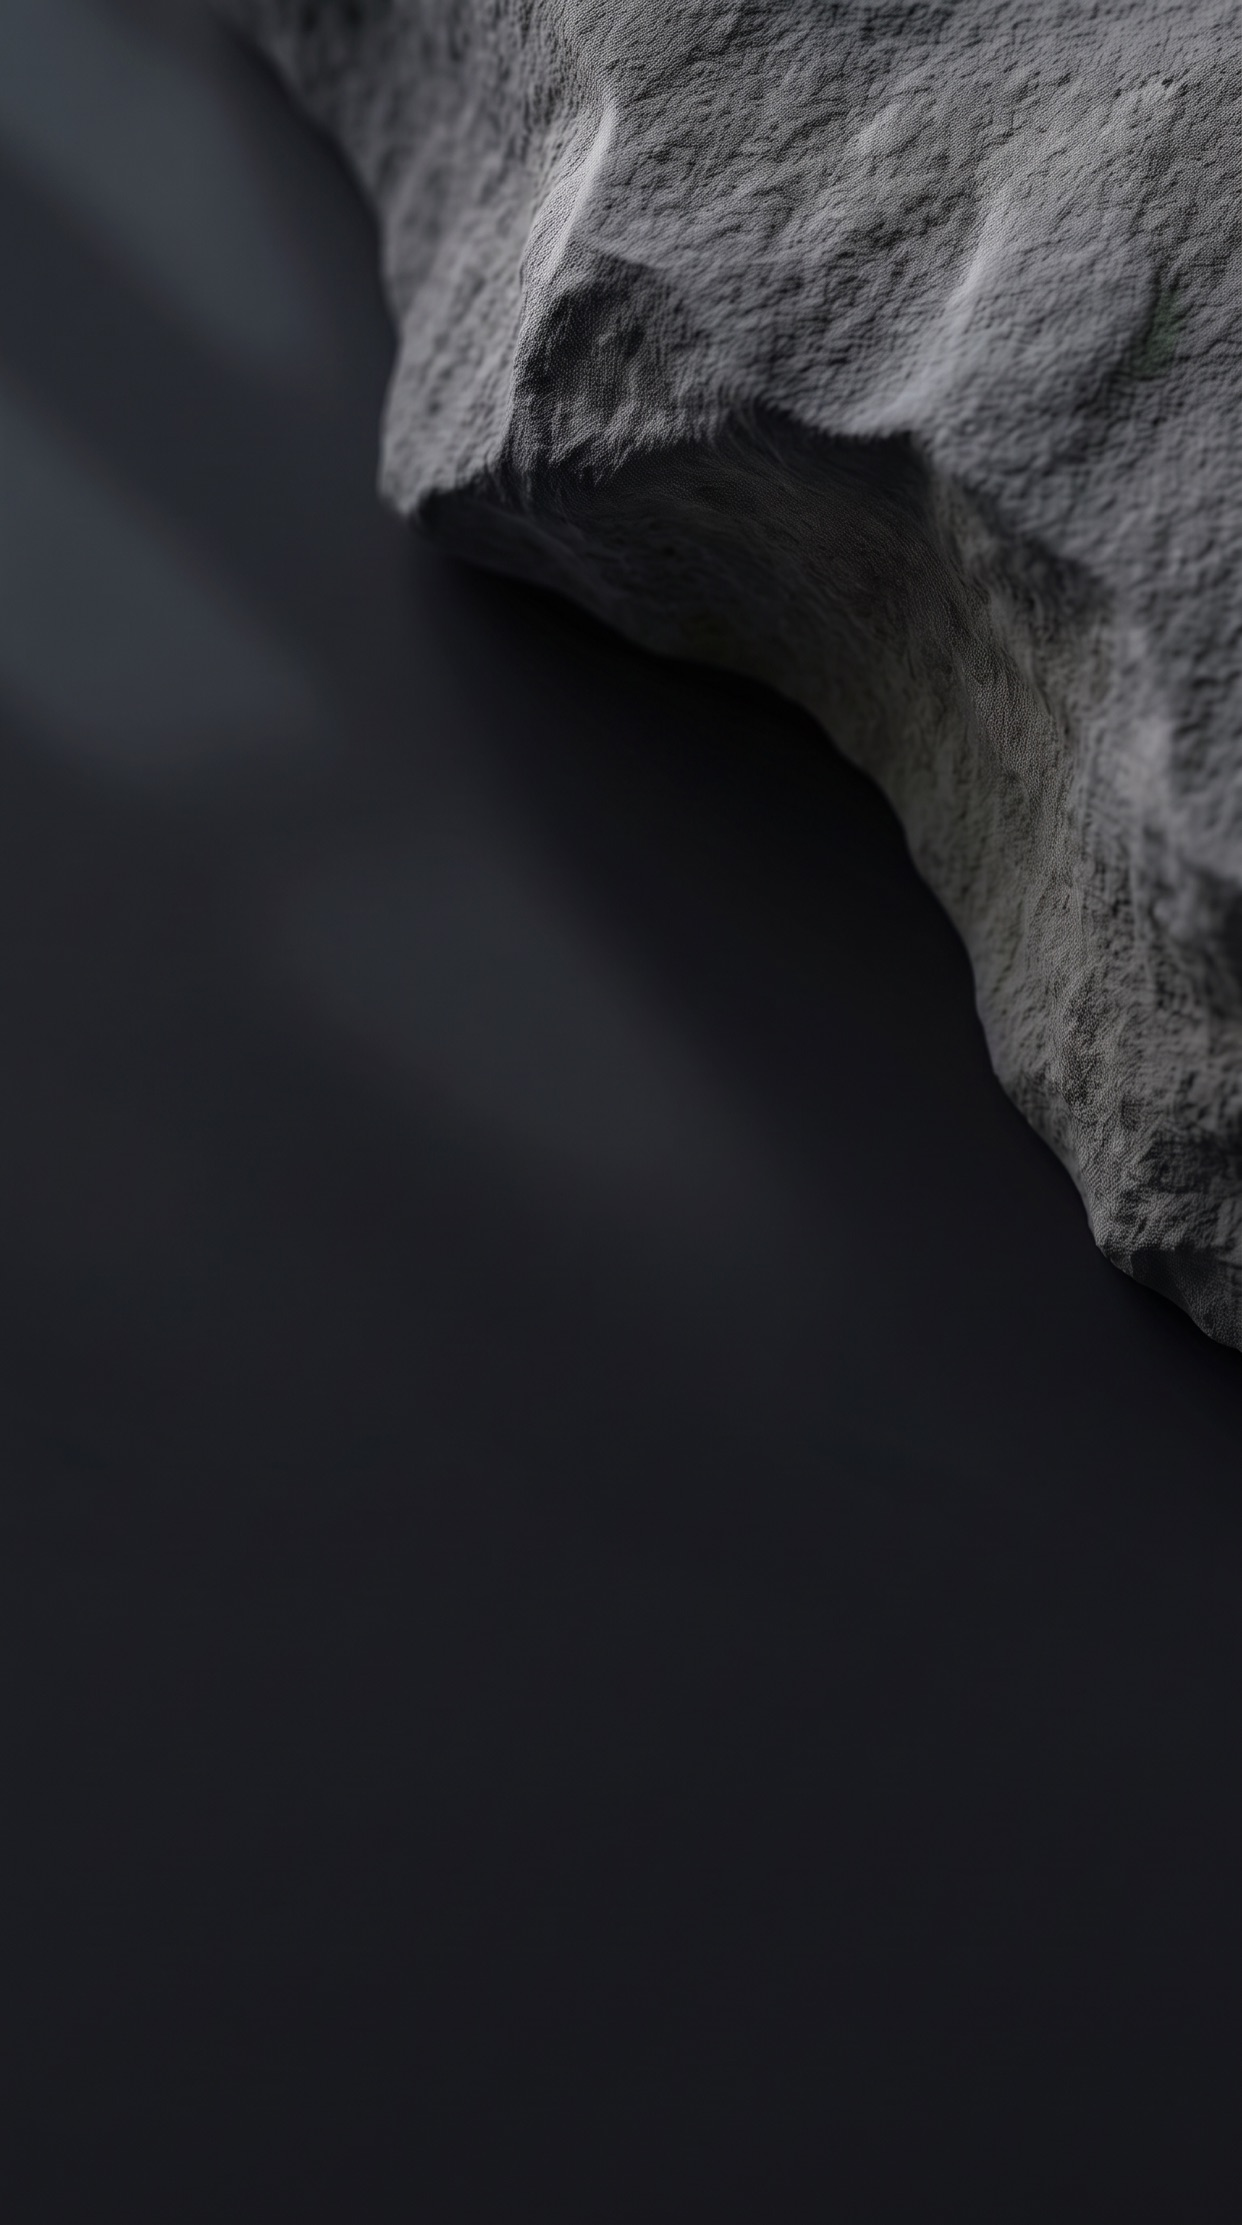
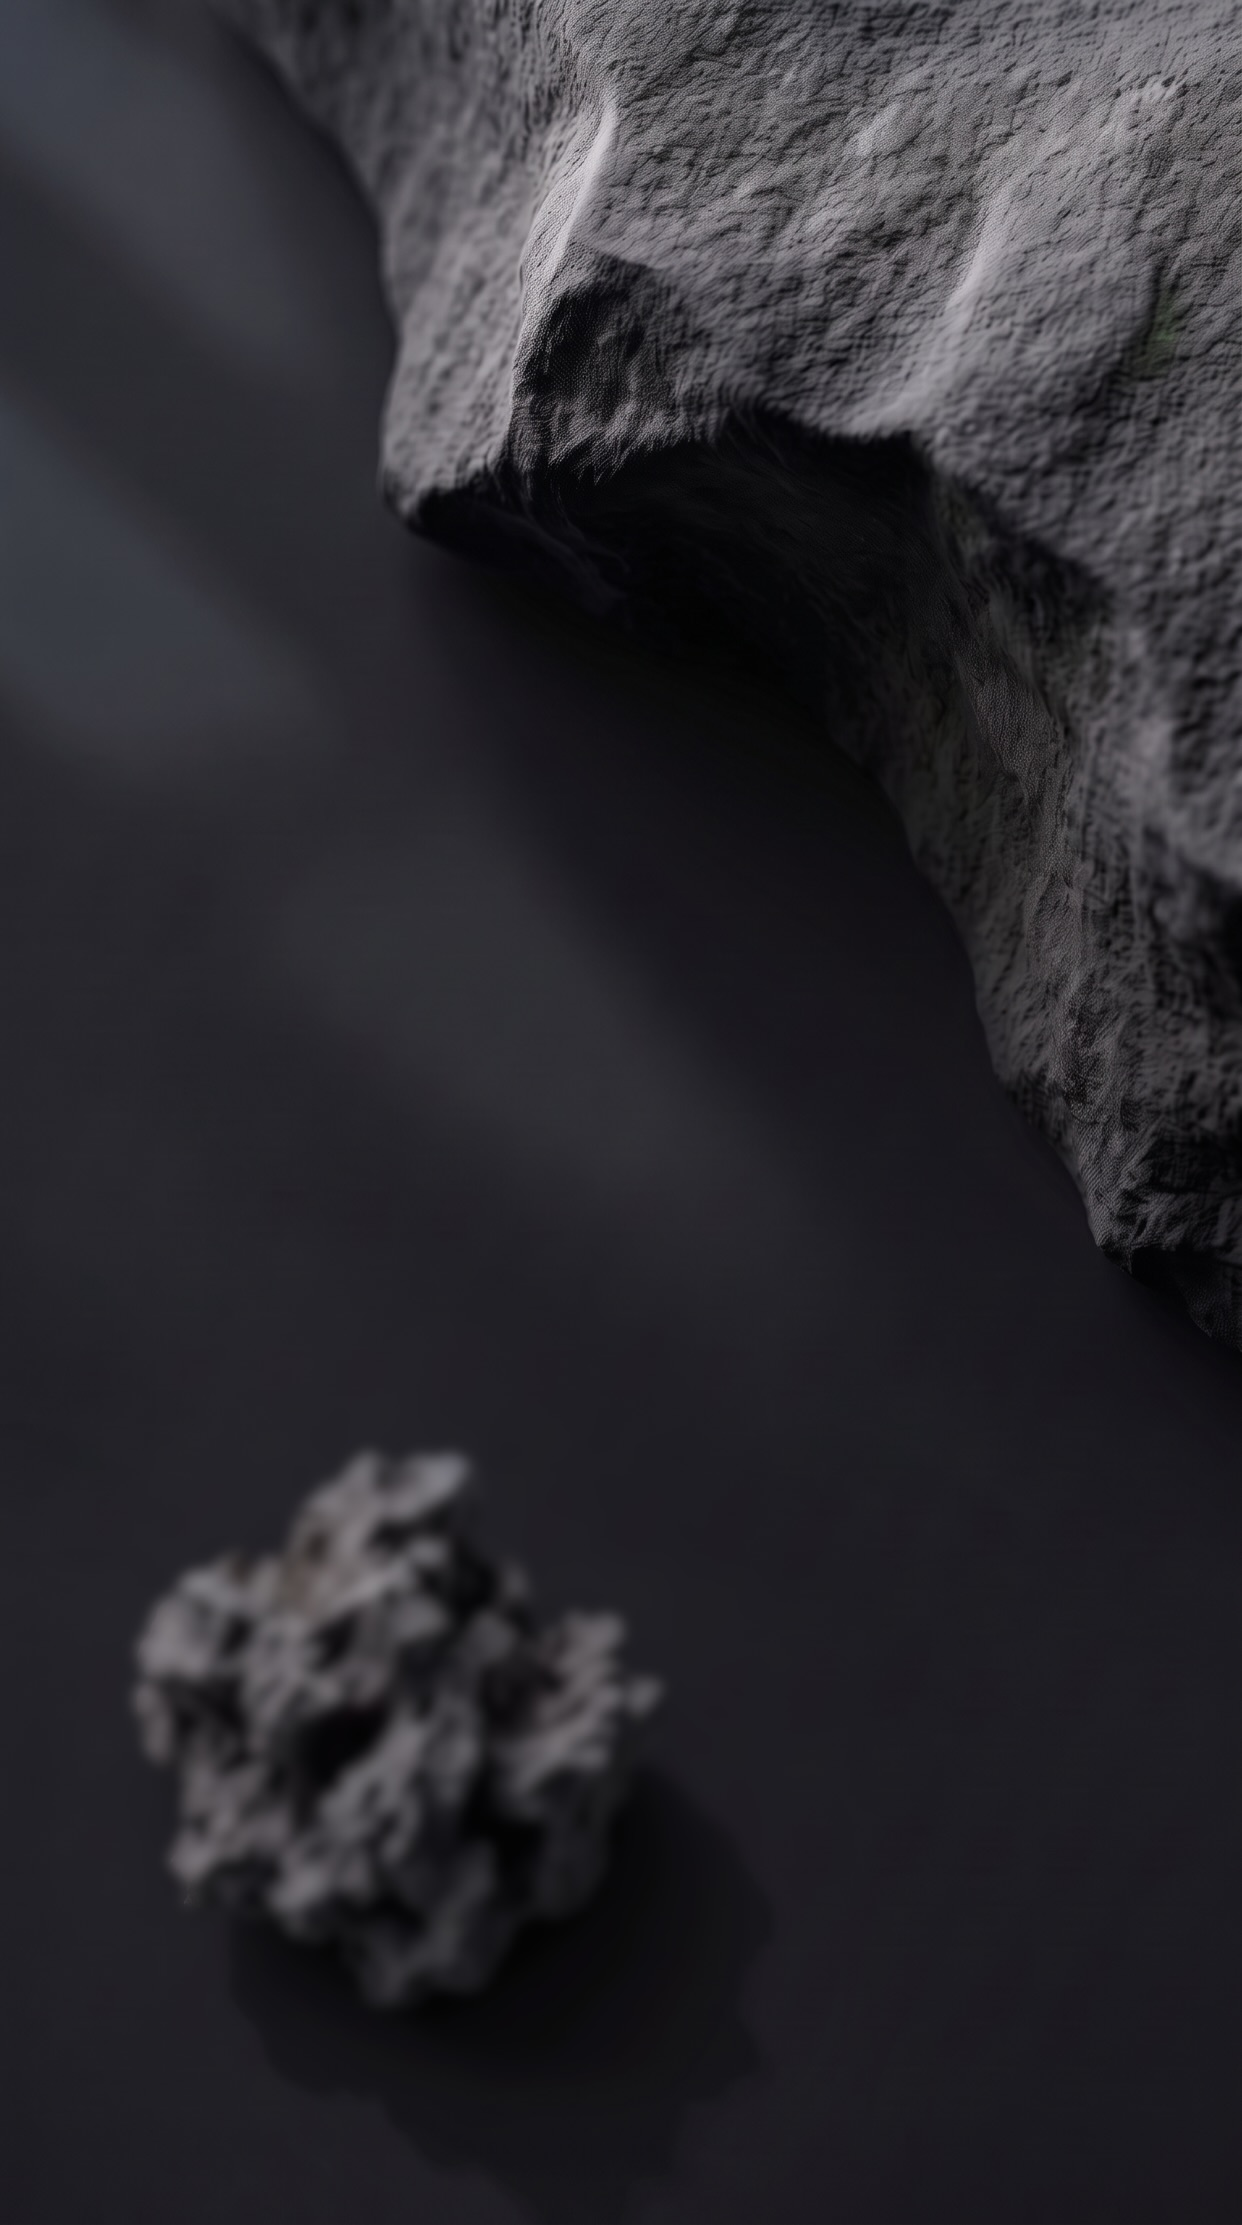
Lighter rock blur, and the updated dark stone background
The small rock on the light stone plate is re-blurred at sigma 7
instead of 16, so its form still reads while staying out of focus.

The supplied '5 (Updated)' dark plate replaces the dark stone
background, with the same rock softened at the same strength. It
measures 43 against the old 42, so the existing 0.5 veil still lands
it near 28, under the dark card surface.

diff --git a/src/components/ui/ground.tsx b/src/components/ui/ground.tsx
@@ -76,7 +76,7 @@ const LIGHT: Record<GroundVariant, Plate> = {
  * darker than the surface they are supposed to be floating on.
  */
 const DARK: Record<GroundVariant, Plate> = {
-  /** Measured 42. */
+  /** Measured 43 (the updated plate, rock softened); lands near 28. */
   stone: {
     source: require('@/assets/images/ground-dark-stone.jpg'),
     veil: 0.5,
